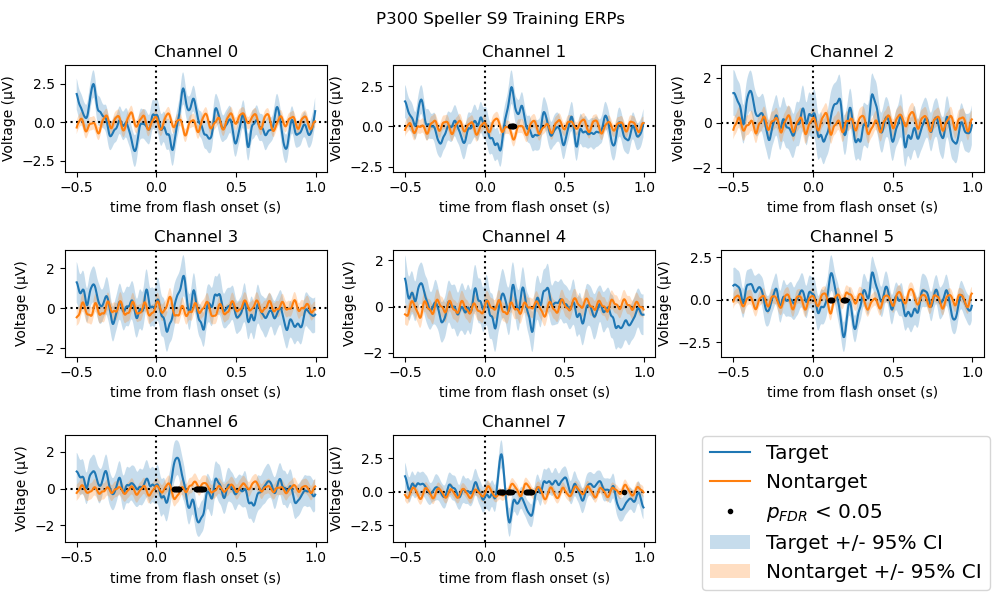
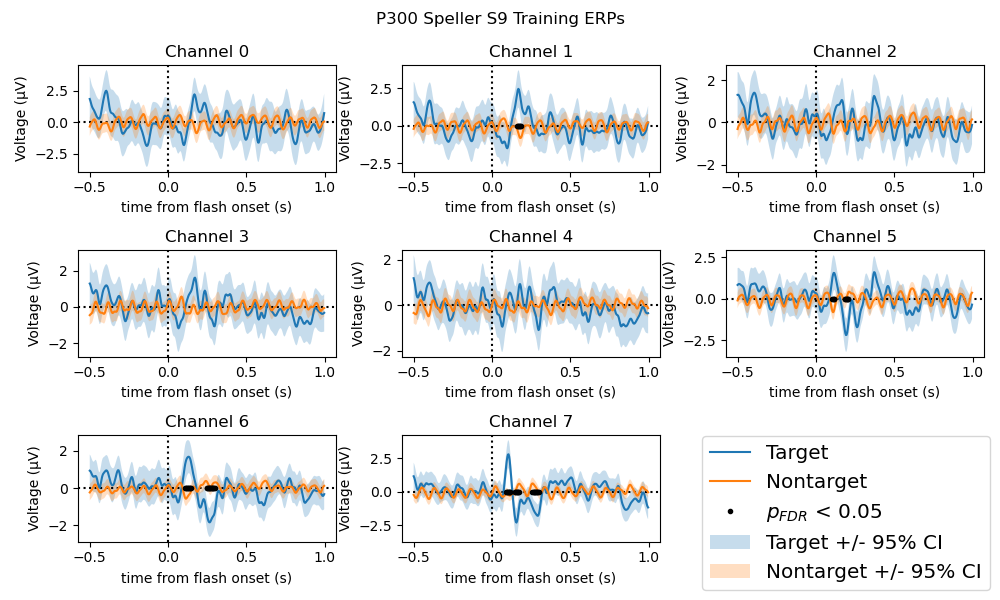
fixed CIs, significance plot, file headers

diff --git a/plot_p300_data.py b/plot_p300_data.py
@@ -3,6 +3,10 @@
 """
 Created on Mon Feb 12 22:23:10 2024
 
+plot_p300_data.py
+
+This file serves as the module for Project 1 in BCI-S24. The ultimate purpose of this script is to generate plots that depict ERP data from a P300 Speller with 95% confidence intervals (under the assumption of a normal distribution) and number of subjects that are significant for a particular sample in a given channel (where the data for the test statistic is bootstrapped, creating a normal distribution of means). These plots generate observable patterns pertaining to the usefulness of a P300 Speller as a potentially effective BCI. In addition, a function generating scalp maps for the ERP data is included, which provides a visual interpretation of channel location spatially (as voltage from ERPs are color-coded).
+
 @authors: Varshney Gentela and Claire Leahy
 
 Sources:
@@ -100,7 +104,10 @@ def plot_confidence_intervals(eeg_epochs, erp_times, target_erp, nontarget_erp, 
     nontarget_count = len(eeg_epochs[~is_target_event])
     channel_count = eeg_epochs.shape[2]
     
-    # statistics calculated for given channel
+    # plot ERPs for events for each channel
+    figure, channel_plots = plt.subplots(3,3, figsize=(10, 6))
+    channel_plots[2][2].remove()  # only 8 channels, 9th plot unnecessary
+   
     for channel_index in range(channel_count):
         
         # calculate statistics for target ERPs
@@ -110,16 +117,6 @@ def plot_confidence_intervals(eeg_epochs, erp_times, target_erp, nontarget_erp, 
         # calculate statistics for nontarget ERPs
         nontarget_standard_deviation = np.std(eeg_epochs[~is_target_event,:,channel_index], axis=0) # standard deviation of EEG data for nontarget events at a given sample time point
         nontarget_standard_error = nontarget_standard_deviation / np.sqrt(nontarget_count) # standard error for nontargets
-    
-    # transpose the erp data to plot, matches average at that sample time to the size of the time array
-    target_erp_transpose = np.transpose(target_erp)
-    nontarget_erp_transpose = np.transpose(nontarget_erp)
-    
-    # plot ERPs for events for each channel
-    figure, channel_plots = plt.subplots(3,3, figsize=(10, 6))
-    channel_plots[2][2].remove()  # only 8 channels, 9th plot unnecessary
-   
-    for channel_index in range(channel_count):
         
         row_index, column_index = divmod(channel_index, 3)  # wrap around to column 0 for every 3 plots
         
@@ -130,14 +127,14 @@ def plot_confidence_intervals(eeg_epochs, erp_times, target_erp, nontarget_erp, 
         channel_plot.axhline(0, color='black', linestyle='dotted')
         
         # plot ERP data in the subplot
-        target_handle, = channel_plot.plot(erp_times, target_erp_transpose[channel_index])
+        target_handle, = channel_plot.plot(erp_times, target_erp.T[channel_index])
         
-        nontarget_handle, = channel_plot.plot(erp_times, nontarget_erp_transpose[channel_index])
+        nontarget_handle, = channel_plot.plot(erp_times, nontarget_erp.T[channel_index])
         
         # plot confidence intervals
-        target_confidence_interval_handle = channel_plot.fill_between(erp_times,target_erp_transpose[channel_index] - 2 * target_standard_error, target_erp_transpose[channel_index] + 2 * target_standard_error, alpha=0.25)
+        target_confidence_interval_handle = channel_plot.fill_between(erp_times,target_erp.T[channel_index] - 2 * target_standard_error, target_erp.T[channel_index] + 2 * target_standard_error, alpha=0.25)
         
-        nontarget_confidence_interval_handle = channel_plot.fill_between(erp_times,nontarget_erp_transpose[channel_index] - 2 * nontarget_standard_error, nontarget_erp_transpose[channel_index] + 2 * nontarget_standard_error, alpha=0.25)
+        nontarget_confidence_interval_handle = channel_plot.fill_between(erp_times,nontarget_erp.T[channel_index] - 2 * nontarget_standard_error, nontarget_erp.T[channel_index] + 2 * nontarget_standard_error, alpha=0.25)
         
         # workaround for legend to only display each entry once
         if channel_index == 0:
@@ -166,6 +163,7 @@ def bootstrap_erps(eeg_epochs, is_target_event):
     """
     Description
     -----------
+    This function begins by generating random indices that will be used to sample from the EEG data with replacement to get a normal distribution of means (mean EEG data, therefore ERP data) per the central limit theorem. The randomly resampled EEG data is put into an array that represents eeg_epochs sampled at those random indices. Under the null hypothesis that there is no difference between target and nontarget ERP data, the random samples are pooled, and to test whether there is any difference between target and nontarget data, the same proportion of target-to-nontarget data is applied when generating the sampled target and nontarget data (i.e. the sampled target ERP data is the mean of the sampled EEG data at indices where there is a target event, even though there is theoretically no difference at these indices under the null hypothesis). Sampled target and nontarget data are returned for use in calculating relevant test statistics.
 
     Parameters
     ----------
@@ -196,6 +194,25 @@ def bootstrap_erps(eeg_epochs, is_target_event):
     return sampled_target_erp, sampled_nontarget_erp
 
 def test_statistic(target_erp_data, nontarget_erp_data):
+    """
+    Description
+    -----------
+    This function calculates the test statistic of interest, which is the absolute value of the difference between target and nontarget ERP data.
+
+    Parameters
+    ----------
+    target_erp_data : RxSxC array of floats, where R is the number of randomizations (N/A for real data, number of bootstrap iterations for bootstrapped data), S is the number of samples per epoch, and C is the number of channels
+        Averaged EEG data over epochs (ERP) data for target events.
+    nontarget_erp_data : RxSxC array of floats, where R is the number of randomizations (N/A for real data, number of bootstrap iterations for bootstrapped data), S is the number of samples per epoch, and C is the number of channels
+        Averaged EEG data over epochs (ERP) data for nontarget events.
+
+    Returns
+    -------
+    erp_difference : RxSxC array of floats, 
+    target_erp_data : RxSxC array of floats, where R is the number of randomizations (N/A for real data, number of bootstrap iterations for bootstrapped data), S is the number of samples per epoch, and C is the number of channels
+        The absolute value of the difference between target and nontarget ERP data at each sample for each channel.
+
+    """
     
     erp_difference = abs(target_erp_data-nontarget_erp_data)
     
@@ -206,7 +223,7 @@ def calculate_p_values(sampled_target_erp, sampled_nontarget_erp,target_erp, non
     """
     Description
     -----------
-    This function plots data 
+    This function uses the test statistics - the absolute value of the difference between target and nontarget ERP data, both resampled and real - to calculate p-values. Since p-values represent the proportion of bootstrapped statistics are greater than the real statistics, a count where this condition holds is divided by the number of randomizations performed. To effectively do this, the condition must be checked across each of the randomizations. The result is an array that contains a p-value at each sample for each channel.
 
     Parameters
     ----------
@@ -260,7 +277,8 @@ def plot_false_discovery_rate(eeg_epochs, erp_times, target_erp, nontarget_erp, 
     """
     Description
     -----------
-
+    Correcting for false discovery rate implements a method that limits false positives being reported as significant. This effectively increases the p-values, potentially decreasing the significance observed in a sample of a given channel. This function employs false discovery rate correction to find where the data is potentially significant under stricter conditions. After the corrected p-values are found, their values are compared with the fdr_threshold value alpha (0.05 in this case); when the p-values are found to be lower than alpha, the sample point is deemed significant (for that given channel). These indices make up a sub-portion of erp_times, and a significant time can be obtained by indexing the significant index in erp_times. A black dot is plotted along the x-axis of a channel subplot on the sample time for each occasion of significance. An array where the sample times are significant in each channel is returned for future use in counting the number of subjects that experience significant differences at those times.
+    
     Parameters
     ----------
     eeg_epochs : ExSxC array of floats, where E is the number of epochs, S is the number of samples in each epoch, and C is the number of channels
@@ -296,7 +314,10 @@ def plot_false_discovery_rate(eeg_epochs, erp_times, target_erp, nontarget_erp, 
     
     significant_times = [[] for _ in range(channel_count)]
     
-    # statistics calculated for given channel
+    # plot ERPs for events for each channel
+    figure, channel_plots = plt.subplots(3,3, figsize=(10, 6))
+    channel_plots[2][2].remove()  # only 8 channels, 9th plot unnecessary
+   
     for channel_index in range(channel_count):
         
         # calculate statistics for target ERPs
@@ -306,16 +327,6 @@ def plot_false_discovery_rate(eeg_epochs, erp_times, target_erp, nontarget_erp, 
         # calculate statistics for nontarget ERPs
         nontarget_standard_deviation = np.std(eeg_epochs[~is_target_event,:,channel_index], axis=0) # standard deviation of EEG data for nontarget events at a given sample time point
         nontarget_standard_error = nontarget_standard_deviation / np.sqrt(nontarget_count) # standard error for nontargets
-    
-    # transpose the erp data to plot, matches average at that sample time to the size of the time array
-    target_erp_transpose = np.transpose(target_erp)
-    nontarget_erp_transpose = np.transpose(nontarget_erp)
-    
-    # plot ERPs for events for each channel
-    figure, channel_plots = plt.subplots(3,3, figsize=(10, 6))
-    channel_plots[2][2].remove()  # only 8 channels, 9th plot unnecessary
-   
-    for channel_index in range(channel_count):
         
         row_index, column_index = divmod(channel_index, 3)  # wrap around to column 0 for every 3 plots
         
@@ -326,25 +337,24 @@ def plot_false_discovery_rate(eeg_epochs, erp_times, target_erp, nontarget_erp, 
         channel_plot.axhline(0, color='black', linestyle='dotted')
         
         # plot target and nontarget erp data in the subplot
-        target_handle, = channel_plot.plot(erp_times, target_erp_transpose[channel_index])
-        nontarget_handle, = channel_plot.plot(erp_times, nontarget_erp_transpose[channel_index])
+        target_handle, = channel_plot.plot(erp_times, target_erp.T[channel_index])
+        nontarget_handle, = channel_plot.plot(erp_times, nontarget_erp.T[channel_index])
         
         # generate times to plot
         is_significant = np.array(np.where(corrected_p_values[0, :, channel_index] == 1)) # evaluate across all samples for a channel when  p_value < fdr_threshold is true
-        #significant_times = []
-        for significant_index in is_significant[0]:
-            #significant_times.append(erp_times[significant_index])
-            significant_times[channel_index].append(erp_times[significant_index])
+
+        for significant in is_significant[0]:
+            
+            significant_times[channel_index].append(erp_times[significant])
         significant_count = len(np.array(significant_times[channel_index]).T)
         
         # plot significant points
-        #significance_handle, = channel_plot.plot(significant_times, np.zeros(significant_count), 'ko', markersize=3)
         significance_handle, = channel_plot.plot(np.array(significant_times[channel_index]), np.zeros(significant_count), 'ko', markersize=3)
         
         # plot confidence intervals
-        target_confidence_interval_handle = channel_plot.fill_between(erp_times,target_erp_transpose[channel_index] - 2 * target_standard_error, target_erp_transpose[channel_index] + 2 * target_standard_error, alpha=0.25)
+        target_confidence_interval_handle = channel_plot.fill_between(erp_times,target_erp.T[channel_index] - 2 * target_standard_error, target_erp.T[channel_index] + 2 * target_standard_error, alpha=0.25)
         
-        nontarget_confidence_interval_handle = channel_plot.fill_between(erp_times,nontarget_erp_transpose[channel_index] - 2 * nontarget_standard_error, nontarget_erp_transpose[channel_index] + 2 * nontarget_standard_error, alpha=0.25)
+        nontarget_confidence_interval_handle = channel_plot.fill_between(erp_times,nontarget_erp.T[channel_index] - 2 * nontarget_standard_error, nontarget_erp.T[channel_index] + 2 * nontarget_standard_error, alpha=0.25)
         
         # workaround for legend to only display each entry once
         if channel_index == 0:
@@ -375,6 +385,7 @@ def multiple_subject_evaluation(subjects=np.arange(3,11), data_directory='P300Da
     """
     Description
     -----------
+    This function loops through the functions defined above for each subject (with the exception of plot_confidence_intervals since plot_false_discovery_rate has very similar functionality in addition to adding significant points.) After each function is called, the number of subjects in which a given sample of a given channel exhibits significance is counted.  
 
     Parameters
     ----------
@@ -447,6 +458,7 @@ def plot_subject_significance(erp_times, subject_significance):
     """
     Description
     -----------
+    Using the data from the function above where the number of significant subjects in a given sample of a given channel is counted, a plot (for each channel) depicting these counts is generated. 
 
     Parameters
     ----------
@@ -461,7 +473,7 @@ def plot_subject_significance(erp_times, subject_significance):
 
     """
     
-    channel_count = len(subject_significance)
+    channel_count = len(subject_significance[1])
     
     figure, channel_plots = plt.subplots(3,3, figsize=(10, 6), sharey=True)
     
@@ -472,8 +484,8 @@ def plot_subject_significance(erp_times, subject_significance):
         row_index, column_index = divmod(channel_index, 3)  # wrap around to column 0 for every 3 plots
         
         channel_plot = channel_plots[row_index][column_index] # subplot
-        
-        channel_plot.plot(erp_times, subject_significance[channel_index])
+
+        channel_plot.plot(erp_times, subject_significance[1][channel_index])
         
         # label each plot's axes and channel number
         channel_plot.set_title(f'Channel {channel_index}')

diff --git a/test_plot_p300_data.py b/test_plot_p300_data.py
@@ -3,6 +3,10 @@
 """
 Created on Tue Feb 13 10:03:54 2024
 
+test_plot_p300_data.py
+
+This file serves as the test script for Project 1 for BCI-S24. The functions from the module script are first imported so that they can be called here. This script primarily calls the functions under their default conditions, which primarily indicates the data are evaluated for subject 3. The actions of the functions called include loading the training data, plotting the ERP data with their 95% confidence intervals, bootstrapping the data, finding test statistics and using them for p-value calculations, and obtaining signficance by adjusting the p-values for multiple corrections. After these actions are performed, virtually all of them are called again in the function multiple_subject_evaluation, which calls these functions on subjects 3-10 (per default conditions). A plot is then produced to depict how many subjects exhibit significance at a sample in a channel. A scalp map is also produced as a visual representation of voltage by channel location.
+
 @author: Varshney Gentela and Claire Leahy
 """
 
@@ -13,11 +17,11 @@ from plot_p300_data import load_erp_data, plot_confidence_intervals, bootstrap_e
 
 #%% Load data
 
-is_target_event, eeg_epochs, erp_times, target_erp, nontarget_erp = load_erp_data(subject=3, data_directory='P300Data/', epoch_start_time=-0.5, epoch_end_time=1.0)
+is_target_event, eeg_epochs, erp_times, target_erp, nontarget_erp = load_erp_data() # default conditions
 
-#%% Plot confidence intervals standard error
+#%% Plot confidence intervals with standard error
 
-plot_confidence_intervals(eeg_epochs,erp_times, target_erp, nontarget_erp, is_target_event, subject=3)
+plot_confidence_intervals(eeg_epochs,erp_times, target_erp, nontarget_erp, is_target_event) # default conditions
 
 #%% Bootstrapping
 
@@ -44,14 +48,14 @@ bootstrapped_erp_difference = test_statistic(sampled_target_erp, sampled_nontarg
 real_erp_difference = test_statistic(target_erp, nontarget_erp)
 
 # determine p_values
-p_values = calculate_p_values(sampled_target_erp, sampled_nontarget_erp,target_erp, nontarget_erp,randomization_count=3000)
+p_values = calculate_p_values(sampled_target_erp, sampled_nontarget_erp,target_erp, nontarget_erp) # default conditions
 
 #%% FDR correction
 
 significant_times = plot_false_discovery_rate(eeg_epochs, erp_times, target_erp, nontarget_erp, is_target_event, p_values, subject=3, fdr_threshold = 0.05)
 
 #%% Multiple subjects comparison
-subject_significance = multiple_subject_evaluation(subjects=np.arange(3,11), data_directory='P300Data/', sample_count=384, channel_count=8, epoch_start_time=-0.5, epoch_end_time=1.0, randomization_count=3000, fdr_threshold=0.05)
+subject_significance = multiple_subject_evaluation() # default conditions
 
 plot_subject_significance(erp_times, subject_significance)
 
